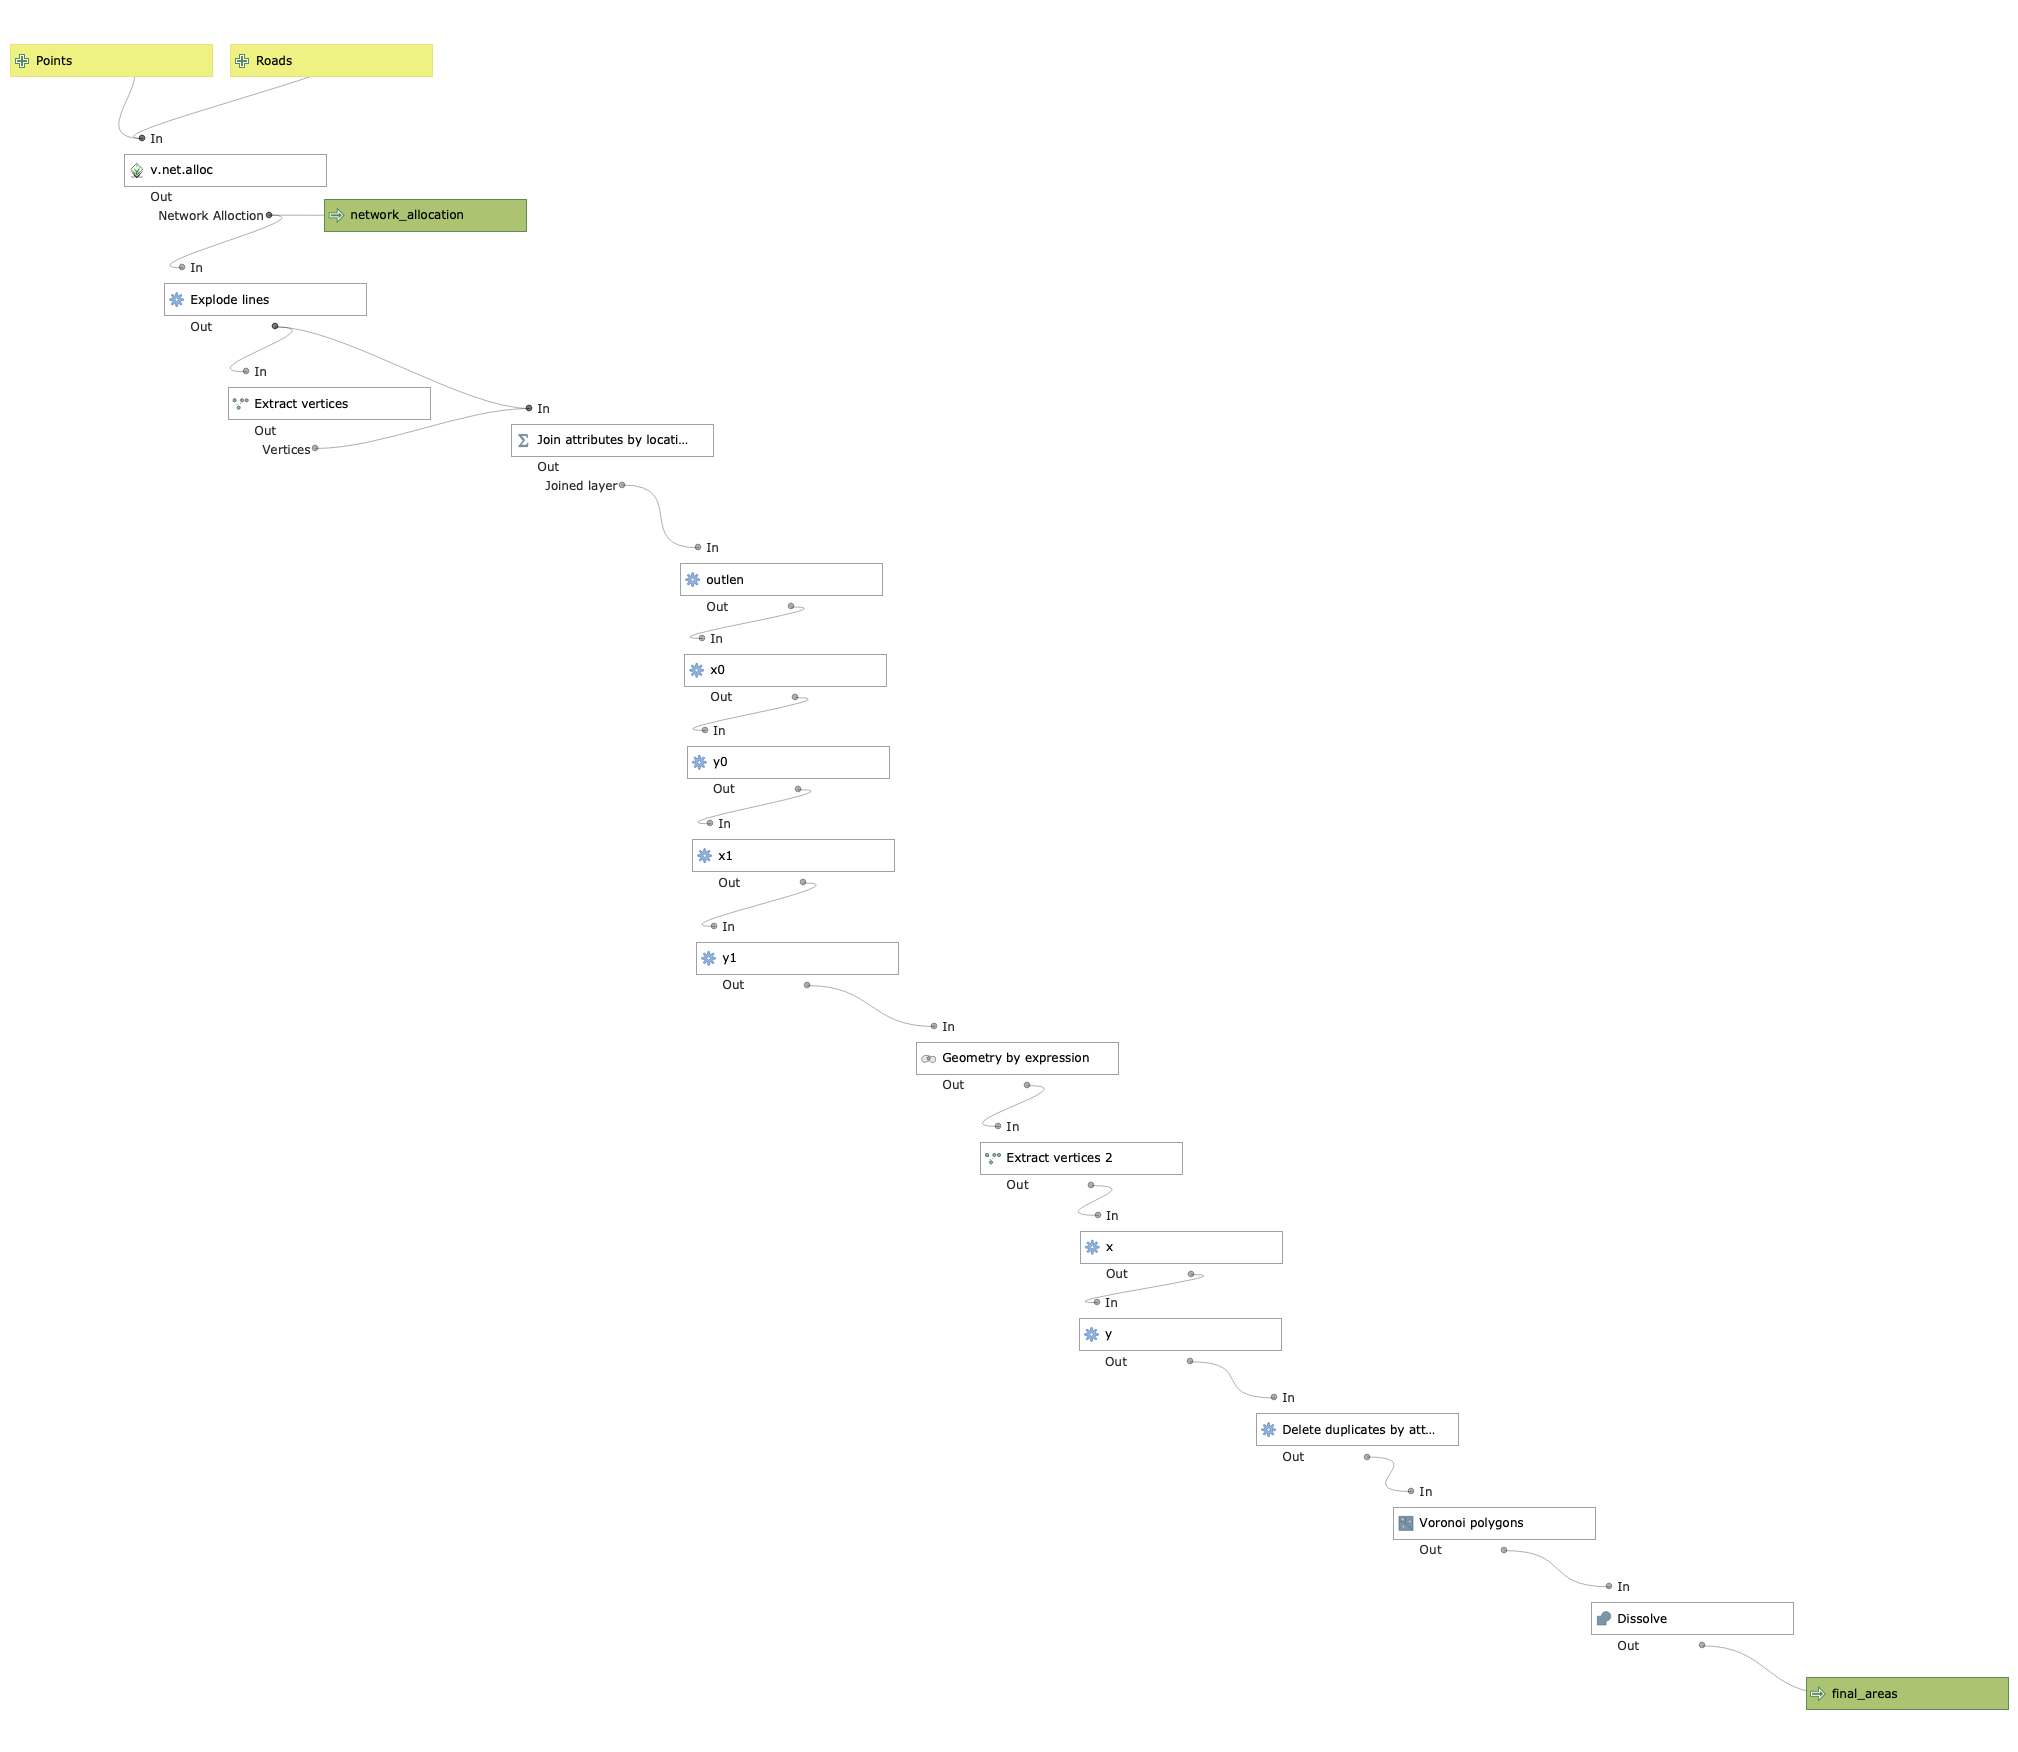
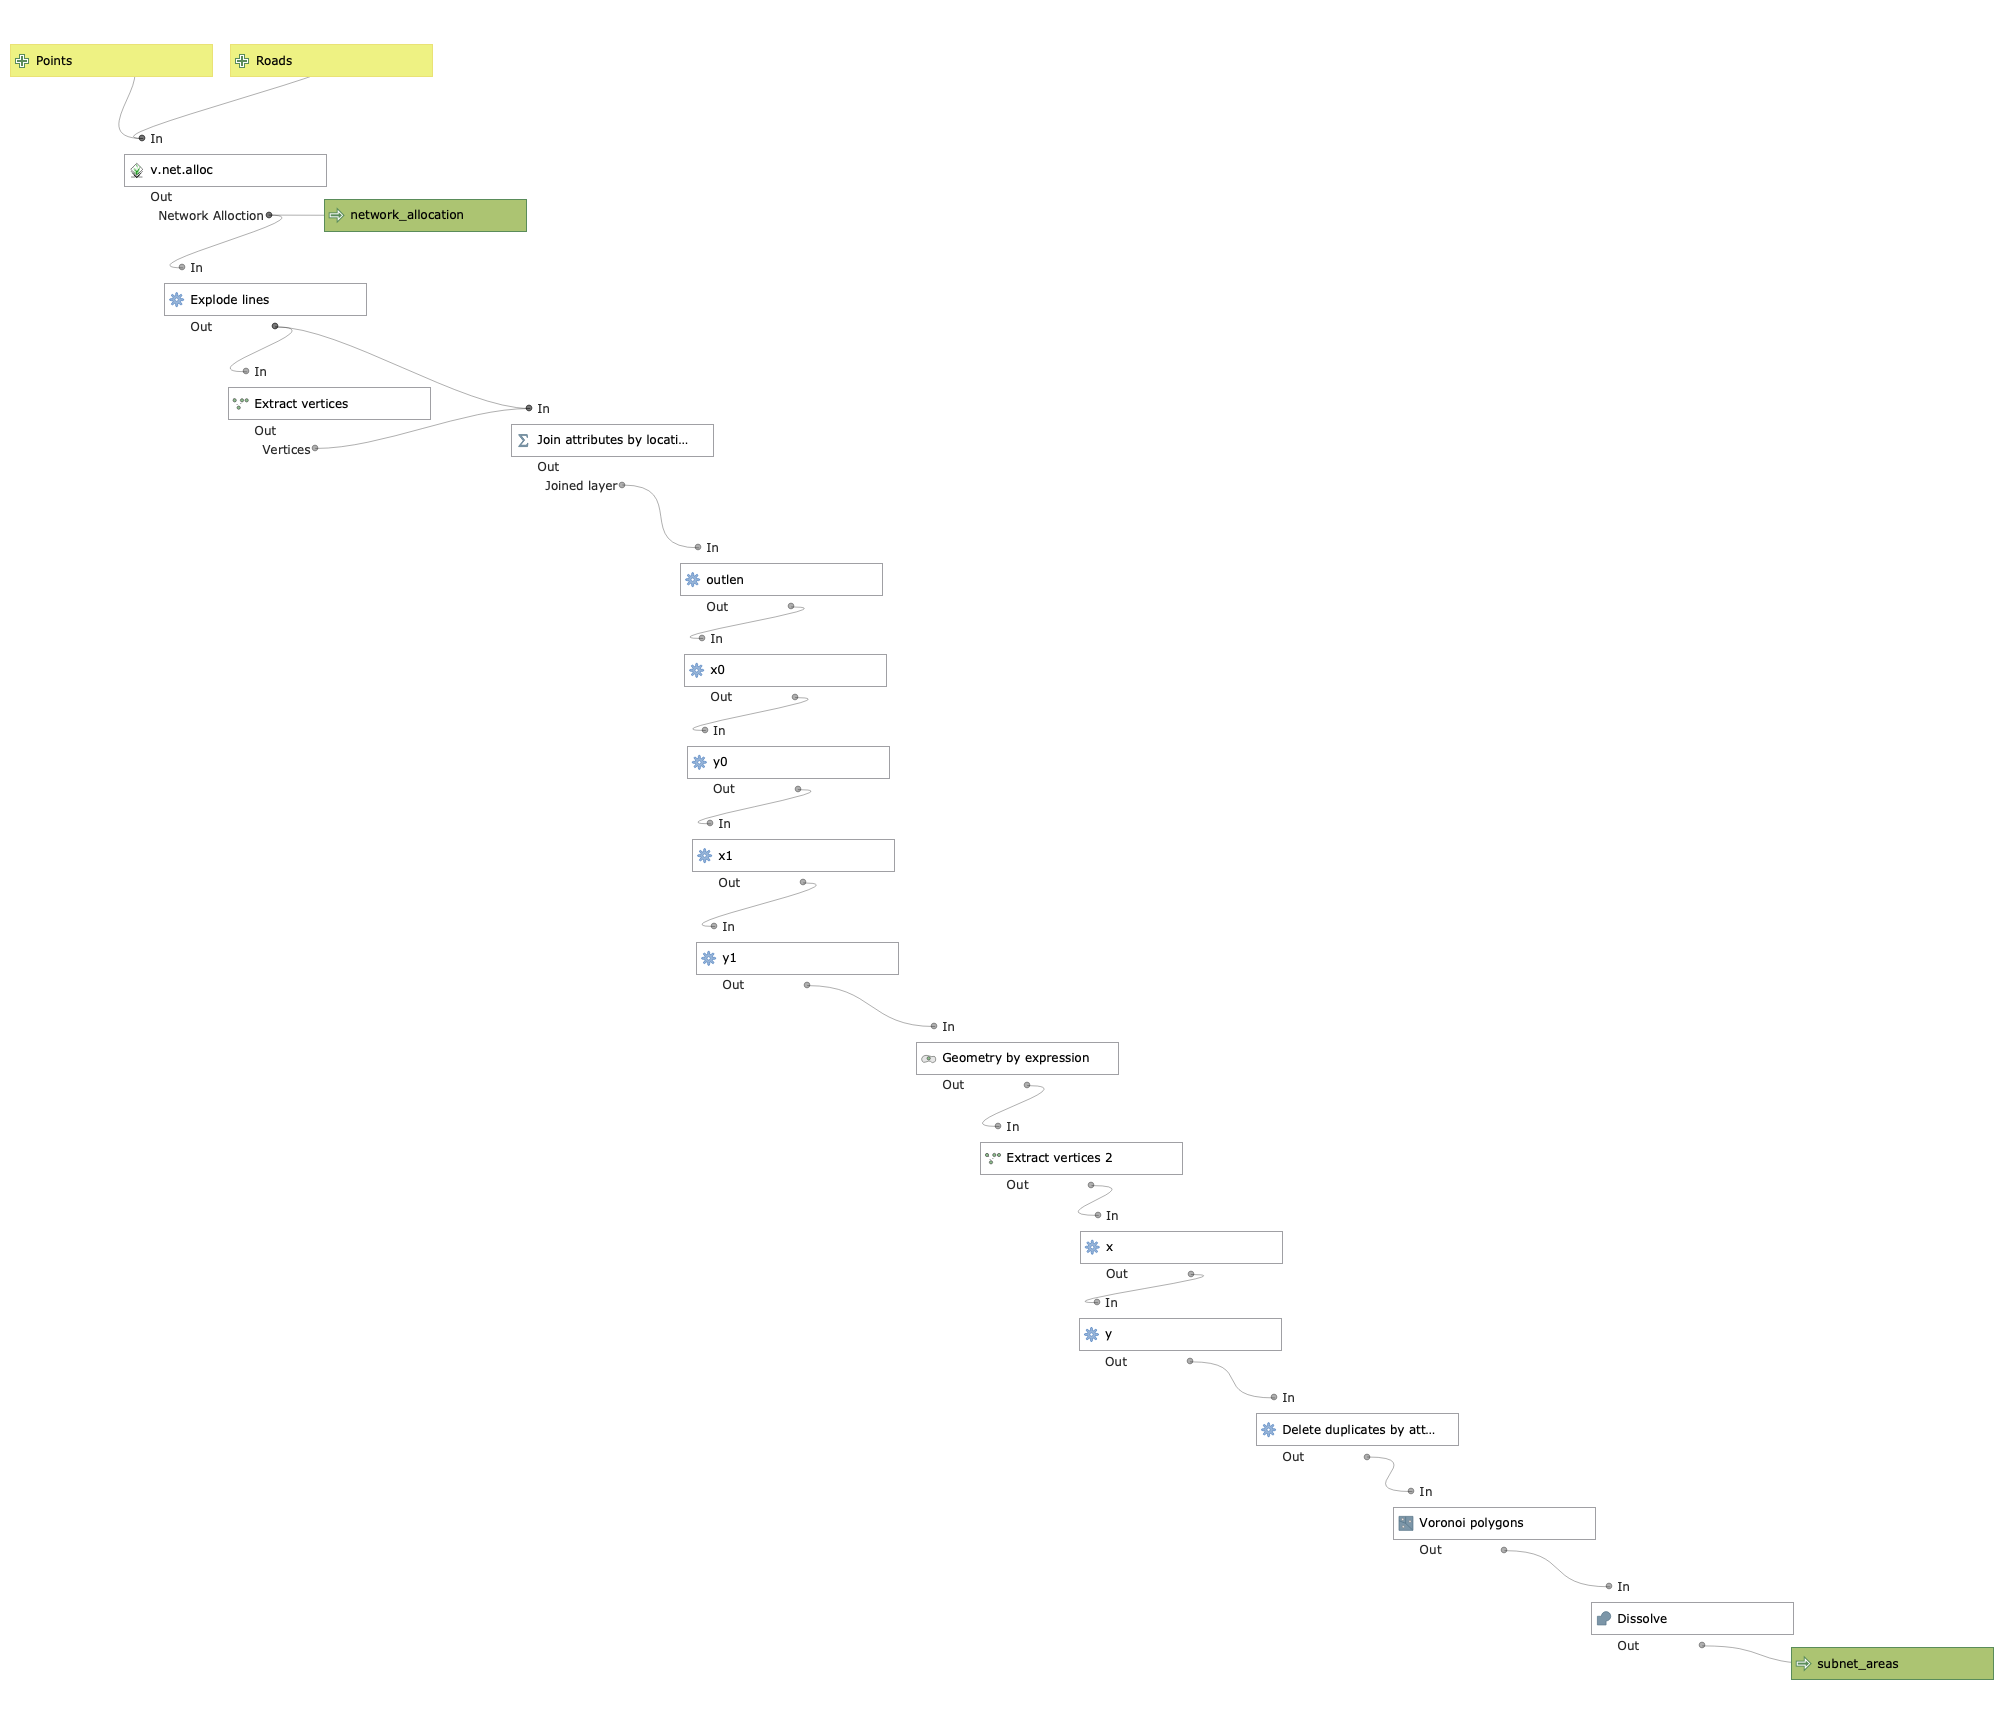
Add files via upload

diff --git a/Subnet Areas.py b/Subnet Areas.py
@@ -2,18 +2,18 @@
 Subnet Areas
 v0.2
 By Matt Marotta
-2020-05-11
+2020-05-24
 With QGIS : 31202
 
 This script takes a road and point layer and creates areas that are closest to the points.
 
 Requirements:
-1. Always run these from the Processing Toolbox, not the model editor. In the Processing toolbox, 
-click the gears icon and select "Add Model to Toolbox", or the python icon and select "Add Script 
+1. Always run these from the Processing Toolbox, not the model editor. In the Processing toolbox,
+click the gears icon and select "Add Model to Toolbox", or the python icon and select "Add Script
 to Toolbox". Then just load in the model3/python file.
 
-2. When running the python script, the "network_allocation" must be saved to a file. Temporary 
-Layer will cause the model execution to fail.
+2. When running the model from either the model file or python script, the "network_allocation"
+output must be saved to a file. Temporary Layer will cause the model execution to fail.
 
 3. Output may load but look blank - you need to change the CRS of the layer in the later properties.
 
@@ -34,7 +34,7 @@ class SubnetAreas(QgsProcessingAlgorithm):
         self.addParameter(QgsProcessingParameterVectorLayer('points', 'Points', types=[QgsProcessing.TypeVectorPoint], defaultValue=None))
         self.addParameter(QgsProcessingParameterVectorLayer('roads', 'Roads', types=[QgsProcessing.TypeVectorLine], defaultValue=None))
         self.addParameter(QgsProcessingParameterVectorDestination('Network_allocation', 'network_allocation', type=QgsProcessing.TypeVectorAnyGeometry, createByDefault=True, defaultValue=None))
-        self.addParameter(QgsProcessingParameterFeatureSink('Final_areas', 'final_areas', type=QgsProcessing.TypeVectorAnyGeometry, createByDefault=True, defaultValue=None))
+        self.addParameter(QgsProcessingParameterFeatureSink('Subnet_areas', 'subnet_areas', type=QgsProcessing.TypeVectorAnyGeometry, createByDefault=True, defaultValue=None))
 
     def processAlgorithm(self, parameters, context, model_feedback):
         # Use a multi-step feedback, so that individual child algorithm progress reports are adjusted for the
@@ -281,10 +281,10 @@ class SubnetAreas(QgsProcessingAlgorithm):
         alg_params = {
             'FIELD': ['cat'],
             'INPUT': outputs['VoronoiPolygons']['OUTPUT'],
-            'OUTPUT': parameters['Final_areas']
+            'OUTPUT': parameters['Subnet_areas']
         }
         outputs['Dissolve'] = processing.run('native:dissolve', alg_params, context=context, feedback=feedback, is_child_algorithm=True)
-        results['Final_areas'] = outputs['Dissolve']['OUTPUT']
+        results['Subnet_areas'] = outputs['Dissolve']['OUTPUT']
         return results
 
     def name(self):
